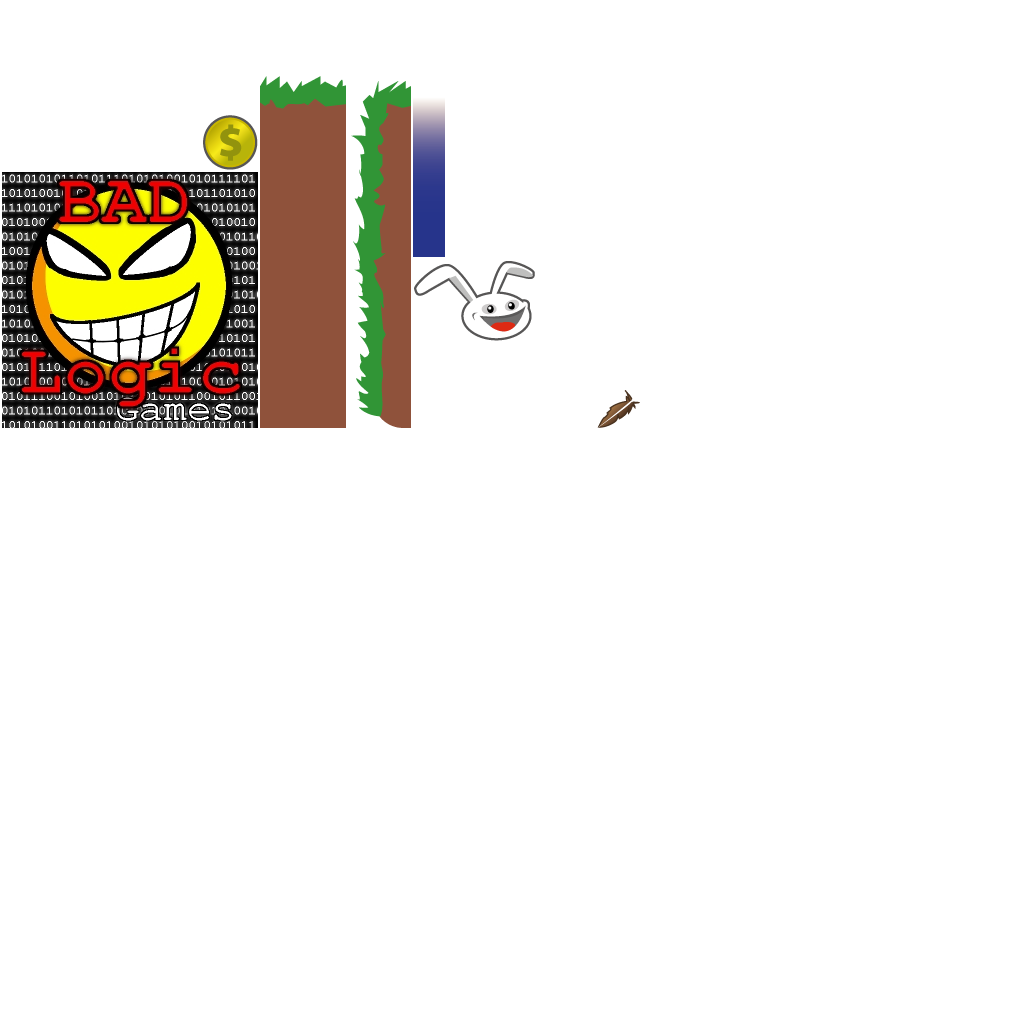
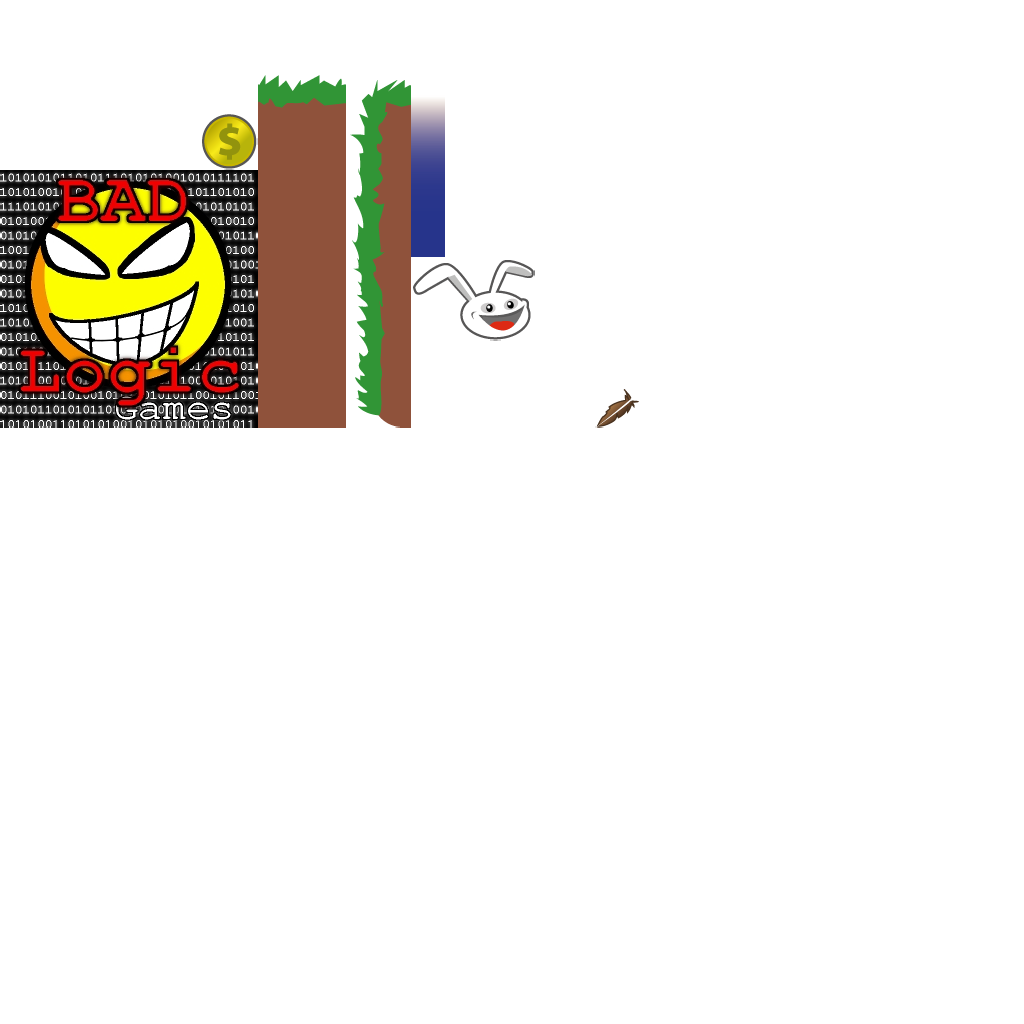
Assignment 8a:
Added: particle.png, dust.pfx
Modified: DesktopLauncher, WorldRenderer, WorldController, MenuScreen, Rock, Mountains, Clouds, BunnyHead, CameraHelper

diff --git a/core/src/com/olah/gdx/game/GameObjects/Mountains.java b/core/src/com/olah/gdx/game/GameObjects/Mountains.java
@@ -3,6 +3,7 @@ package com.olah.gdx.game.GameObjects;
 import com.badlogic.gdx.graphics.g2d.SpriteBatch;
 import com.badlogic.gdx.graphics.g2d.TextureRegion;
 import com.badlogic.gdx.math.MathUtils;
+import com.badlogic.gdx.math.Vector2;
 import com.olah.gdx.game.Assets;
 
 /**
@@ -13,6 +14,11 @@ public class Mountains extends AbstractGameObject
 {
 	private TextureRegion regMountainLeft;
 	private TextureRegion regMountainRight;
+	
+	public void updateScrollPosition(Vector2 camPosition)
+	{
+		position.set(camPosition.x,position.y);
+	}
 	
 	private int length;
 	
@@ -34,7 +40,7 @@ public class Mountains extends AbstractGameObject
 		length += dimension.x*2;
 	}
 	
-	private void drawMountains(SpriteBatch batch, float offsetX,float offsetY,float tintColor)
+	private void drawMountains(SpriteBatch batch, float offsetX,float offsetY,float tintColor, float parallaxSpeedX)
 	{
 		TextureRegion reg = null;
 		batch.setColor(tintColor,tintColor,tintColor,1);
@@ -43,18 +49,18 @@ public class Mountains extends AbstractGameObject
 		
 		//Mountains span the whole level
 		int mountainLength = 0;
-		mountainLength += MathUtils.ceil(length/(2*dimension.x));
+		mountainLength += MathUtils.ceil(length/(2*dimension.x) * (1-parallaxSpeedX));
 		mountainLength += MathUtils.ceil(.05f+offsetX);
 		for(int i = 0; i < mountainLength; i++)
 		{
 			//Mountain left
 			reg = regMountainLeft;
-			batch.draw(reg.getTexture(), origin.x+relX, position.y+origin.y+relY, origin.x, origin.y, dimension.x, dimension.y, scale.x, scale.y, rotation, reg.getRegionX(), reg.getRegionY(), reg.getRegionWidth(), reg.getRegionHeight(), false, false);
+			batch.draw(reg.getTexture(), origin.x+relX+position.x * parallaxSpeedX, origin.y+relY+position.y, origin.x, origin.y, dimension.x, dimension.y, scale.x, scale.y, rotation, reg.getRegionX(), reg.getRegionY(), reg.getRegionWidth(), reg.getRegionHeight(), false, false);
 			relX += dimension.x;
 		
 			//Mountain right
 			reg = regMountainRight;
-			batch.draw(reg.getTexture(), origin.x+relX, position.y+origin.y+relY, origin.x, origin.y, dimension.x, dimension.y, scale.x, scale.y, rotation, reg.getRegionX(), reg.getRegionY(), reg.getRegionWidth(), reg.getRegionHeight(), false, false);
+			batch.draw(reg.getTexture(), origin.x+relX+position.x * parallaxSpeedX, origin.y+relY+position.y, origin.x, origin.y, dimension.x, dimension.y, scale.x, scale.y, rotation, reg.getRegionX(), reg.getRegionY(), reg.getRegionWidth(), reg.getRegionHeight(), false, false);
 			relX += dimension.x;
 		}
 		//Reset color to white
@@ -65,10 +71,10 @@ public class Mountains extends AbstractGameObject
 	public void render(SpriteBatch batch) 
 	{
 		//Distant mountains(dark gray)
-		drawMountains(batch, 0.5f, 0.5f, 0.5f);
+		drawMountains(batch, 0.5f, 0.5f, 0.5f, 0.8f);
 		//Distant mountains(gray)
-		drawMountains(batch, 0.25f, 0.25f, 0.7f);
+		drawMountains(batch, 0.25f, 0.25f, 0.7f, 0.5f);
 		//Distant mountains(light gray)
-		drawMountains(batch, 0.0f, 0.0f, 0.9f);
+		drawMountains(batch, 0.0f, 0.0f, 0.9f, 0.3f);
 	}
 }

diff --git a/core/src/com/olah/gdx/game/WorldRenderer.java b/core/src/com/olah/gdx/game/WorldRenderer.java
@@ -5,6 +5,7 @@ import com.badlogic.gdx.graphics.OrthographicCamera;
 import com.badlogic.gdx.graphics.g2d.BitmapFont;
 import com.badlogic.gdx.graphics.g2d.Sprite;
 import com.badlogic.gdx.graphics.g2d.SpriteBatch;
+import com.badlogic.gdx.math.MathUtils;
 import com.badlogic.gdx.utils.Align;
 import com.badlogic.gdx.utils.Disposable;
 import com.olah.gdx.game.util.Constants;
@@ -103,8 +104,17 @@ public class WorldRenderer implements Disposable
 	{
 		float x = -15;
 		float y = -15;
-		batch.draw(Assets.instance.goldCoin.goldCoin, x, y, 50, 50, 100, 100, 0.35f, -0.35f, 0);
-		Assets.instance.fonts.defaultBig.draw(batch, ""+worldController.score, x+75, y+37);
+		float offsetX = 50;
+		float offsetY = 50;
+		if(worldController.scoreVisual < worldController.score)
+		{
+			long shakeAlpha = System.currentTimeMillis() % 360;
+			float shakeDist = 1.5f;
+			offsetX += MathUtils.sinDeg(shakeAlpha * 2.2f) * shakeDist;
+			offsetY += MathUtils.sinDeg(shakeAlpha * 2.9f) * shakeDist;
+		}
+		batch.draw(Assets.instance.goldCoin.goldCoin, x, y, offsetX, offsetY, 100, 100, 0.35f, -0.35f, 0);
+		Assets.instance.fonts.defaultBig.draw(batch, ""+(int)worldController.scoreVisual, x+75, y+37);
 	}
 	
 	/**
@@ -124,6 +134,15 @@ public class WorldRenderer implements Disposable
 			batch.draw(Assets.instance.bunny.head, x+i*50, y, 50, 50, 120, 100, 0.35f, -0.35f, 0);
 			batch.setColor(1,1,1,1);
 			
+		}
+		if(worldController.lives >= 0 && worldController.livesVisual > worldController.lives)
+		{
+			int i = worldController.lives;
+			float alphaColor = Math.max(0, worldController.livesVisual - worldController.lives - 0.5f);
+			float alphaScale = 0.35f * (2 + worldController.lives - worldController.livesVisual) * 2;
+			float alphaRotate = -45 * alphaColor;
+			batch.draw(Assets.instance.bunny.head, x + i *50, y, 50, 50, 120, 100, alphaScale, -alphaScale, alphaRotate);
+			batch.setColor(1, 1, 1, 1);
 		}
 	}
 	

diff --git a/core/src/com/olah/gdx/game/GameObjects/Rock.java b/core/src/com/olah/gdx/game/GameObjects/Rock.java
@@ -2,6 +2,8 @@ package com.olah.gdx.game.GameObjects;
 
 import com.badlogic.gdx.graphics.g2d.SpriteBatch;
 import com.badlogic.gdx.graphics.g2d.TextureRegion;
+import com.badlogic.gdx.math.MathUtils;
+import com.badlogic.gdx.math.Vector2;
 import com.olah.gdx.game.Assets;
 
 /**
@@ -10,10 +12,17 @@ import com.olah.gdx.game.Assets;
  */
 public class Rock extends AbstractGameObject
 {
+	private final float FLOAT_CYCLE_TIME = 2.0f;
+	private final float FLOAT_AMPLITUDE = 0.25f;
+	
 	private TextureRegion regEdge;
 	private TextureRegion regMiddle;
 	
 	private int length;
+	
+	private float floatCycleTimeLeft;
+	private boolean floatingDownwards;
+	private Vector2 floatTargetPosition;
 	
 	public Rock()
 	{
@@ -29,6 +38,10 @@ public class Rock extends AbstractGameObject
 		
 		//Start the length of the rock.
 		setLength(1);
+		
+		floatingDownwards = false;
+		floatCycleTimeLeft = MathUtils.random(0,FLOAT_CYCLE_TIME  /2);
+		floatTargetPosition = null;
 	}
 	
 	public void setLength(int length)
@@ -67,5 +80,24 @@ public class Rock extends AbstractGameObject
 		//Draw right edge
 		reg = regEdge;
 		batch.draw(reg.getTexture(), position.x+relX, position.y+relY, origin.x, origin.y, dimension.x/8, dimension.y, scale.x, scale.y, rotation,reg.getRegionX(),reg.getRegionY(),reg.getRegionWidth(),reg.getRegionHeight(),true,false);
+	}
+	
+	@Override
+	public void update (float deltaTime)
+	{
+		super.update(deltaTime);
+		
+		floatCycleTimeLeft -= deltaTime;
+		if(floatTargetPosition == null)
+		{
+			floatTargetPosition = new Vector2(position);
+		}
+		if(floatCycleTimeLeft <= 0)
+		{
+			floatCycleTimeLeft = FLOAT_CYCLE_TIME;
+			floatingDownwards = !floatingDownwards;
+			floatTargetPosition.y += FLOAT_AMPLITUDE * (floatingDownwards ? -1:1);
+		}
+		position.lerp(floatTargetPosition, deltaTime);
 	}
 }

diff --git a/core/src/com/olah/gdx/game/GameObjects/BunnyHead.java b/core/src/com/olah/gdx/game/GameObjects/BunnyHead.java
@@ -1,5 +1,7 @@
 package com.olah.gdx.game.GameObjects;
 
+import com.badlogic.gdx.Gdx;
+import com.badlogic.gdx.graphics.g2d.ParticleEffect;
 import com.badlogic.gdx.graphics.g2d.SpriteBatch;
 import com.badlogic.gdx.graphics.g2d.TextureRegion;
 import com.olah.gdx.game.Assets;
@@ -32,6 +34,7 @@ public class BunnyHead extends AbstractGameObject
 	public JUMP_STATE jumpState;
 	public boolean hasFeatherPowerup;
 	public float timeLeftFeatherPowerup;
+	public ParticleEffect dustParticles = new ParticleEffect();
 	
 	public BunnyHead()
 	{
@@ -58,6 +61,8 @@ public class BunnyHead extends AbstractGameObject
 		//Powerups
 		hasFeatherPowerup = false;
 		timeLeftFeatherPowerup = 0;
+		//Particles
+		dustParticles.load(Gdx.files.internal("particles/dust.pfx"),Gdx.files.internal("particles"));
 	}
 	
 	/**
@@ -134,6 +139,7 @@ public class BunnyHead extends AbstractGameObject
 				setFeatherPowerup(false);
 			}
 		}
+		dustParticles.update(deltaTime);
 	}
 	
 	@Override
@@ -144,6 +150,11 @@ public class BunnyHead extends AbstractGameObject
 		{
 		case GROUNDED:
 			jumpState = JUMP_STATE.FALLING;
+			if(velocity.x != 0)
+			{
+				dustParticles.setPosition(position.x + dimension.x / 2, position.y);
+				dustParticles.start();
+			}
 			break;
 		case JUMP_RISING:
 			//Keep track of jump time
@@ -168,13 +179,17 @@ public class BunnyHead extends AbstractGameObject
 			}
 		}
 		if(jumpState != JUMP_STATE.GROUNDED)
-			super.updateMotionY(deltaTime);
+			dustParticles.allowCompletion();
+			super.updateMotionY(deltaTime); 
 	}
 	
 	@Override
 	public void render (SpriteBatch batch)
 	{
 		TextureRegion reg = null; 
+		
+		//Draw particles
+		dustParticles.draw(batch);
 		
 		//Apply Skin Color
 		batch.setColor(CharacterSkin.values()[GamePreferences.instance.charSkin].getColor());

diff --git a/core/src/com/olah/gdx/game/GameObjects/Clouds.java b/core/src/com/olah/gdx/game/GameObjects/Clouds.java
@@ -31,7 +31,8 @@ public class Clouds extends AbstractGameObject
 
 		
 		@Override
-		public void render(SpriteBatch batch) {
+		public void render(SpriteBatch batch) 
+		{
 			TextureRegion reg = regCloud;
 			batch.draw(reg.getTexture(), position.x+origin.x, position.y+origin.y, origin.x, origin.y, dimension.x, dimension.y, scale.x, scale.y, rotation, reg.getRegionX(), reg.getRegionY(), reg.getRegionWidth(), reg.getRegionHeight(), false, false);		
 		}
@@ -76,6 +77,13 @@ public class Clouds extends AbstractGameObject
 		pos.y += 1.75; //Base position
 		pos.y += MathUtils.random(0.0f,0.2f) * (MathUtils.randomBoolean() ? 1:-1); //Random additional position
 		cloud.position.set(pos);
+		//Speed
+		Vector2 speed = new Vector2();
+		speed.x += 0.5f; //Base speed
+		speed.x += MathUtils.random(0.0f, 0.75f); //Random additional speed
+		cloud.terminalVelocity.set(speed);
+		speed.x *= -1; //Move left
+		cloud.velocity.set(speed);
 		return cloud;
 	}
 	
@@ -87,6 +95,23 @@ public class Clouds extends AbstractGameObject
 			cloud.render(batch);
 		}
 		
+	}
+	
+	@Override
+	public void update(float deltaTime)
+	{
+		for(int i = clouds.size-1; i>=0; i--)
+		{
+			Cloud cloud = clouds.get(i);
+			cloud.update(deltaTime);
+			if(cloud.position.x < -10)
+			{
+				//Cloud moved outside of the world.
+				//Destroy and spawn new cloud at end of level.
+				clouds.removeIndex(i);
+				clouds.add(spawnCloud());
+			}
+		}
 	}
 
 }

diff --git a/core/src/com/olah/gdx/game/WorldController.java b/core/src/com/olah/gdx/game/WorldController.java
@@ -28,6 +28,8 @@ public class WorldController extends InputAdapter
 	public int lives;
 	public int score;
 	private float timeLeftGameOverDelay;
+	public float livesVisual;
+	public float scoreVisual;
 
 	//Rectangles for collision detection
 	private Rectangle r1 = new Rectangle();
@@ -44,6 +46,7 @@ public class WorldController extends InputAdapter
 		Gdx.input.setInputProcessor(this);
 		cameraHelper = new CameraHelper();
 		lives = Constants.LIVES_START;
+		livesVisual = lives;
 		timeLeftGameOverDelay=0;
 		initLevel();
 	}
@@ -51,6 +54,7 @@ public class WorldController extends InputAdapter
 	private void initLevel()
 	{
 		score = 0;
+		scoreVisual = score;
 		level = new Level(Constants.LEVEL_01);
 		cameraHelper.setTarget(level.bunnyHead);
 	}
@@ -79,6 +83,15 @@ public class WorldController extends InputAdapter
 			{
 				initLevel();
 			}
+		}
+		level.mountains.updateScrollPosition(cameraHelper.getPosition());
+		if(livesVisual > lives)
+		{
+			livesVisual = Math.max(lives, livesVisual - 1 * deltaTime);
+		}
+		if(scoreVisual < score)
+		{
+			scoreVisual = Math.min(score, scoreVisual +250 * deltaTime); 
 		}
 	}
 	

diff --git a/core/src/com/olah/gdx/game/CameraHelper.java b/core/src/com/olah/gdx/game/CameraHelper.java
@@ -15,6 +15,7 @@ public class CameraHelper
 	private static final String TAG = CameraHelper.class.getName();
 	private final float MAX_ZOOM_IN = 0.25f;
 	private final float MAX_ZOOM_OUT = 10.0f;
+	private final float FOLLOW_SPEED = 4.0f;
 
 	private Vector2 position;
 	private float zoom;
@@ -32,9 +33,7 @@ public class CameraHelper
 		{
 			return;
 		}
-		position.x = target.position.x + target.origin.y;
-		position.y = target.position.y + target.origin.y;
-		
+		position.lerp(target.position, FOLLOW_SPEED * deltaTime);
 		//Prevent camera from moving too far down.
 		position.y = Math.max(-1f, position.y);
 	}

diff --git a/desktop/src/com/olah/gdx/game/desktop/DesktopLauncher.java b/desktop/src/com/olah/gdx/game/desktop/DesktopLauncher.java
@@ -23,7 +23,7 @@ public class DesktopLauncher
 			Settings settings = new Settings();
 			settings.maxWidth = 1024;
 			settings.maxHeight= 1024;
-			settings.duplicatePadding = false;
+			settings.duplicatePadding = true;
 			settings.debug = drawDebugOutline;
 			TexturePacker.processIfModified(settings, "assets-raw/images", "../core/assets/images","canyonbunny.pack");
 			TexturePacker.processIfModified(settings, "assets-raw/images-ui", "../core/assets/images","canyonbunny-ui.pack");

diff --git a/core/src/com/olah/gdx/game/MenuScreen.java b/core/src/com/olah/gdx/game/MenuScreen.java
@@ -128,7 +128,7 @@ public class MenuScreen extends AbstractGameScreen
 
 		// + Info logos
 		imgInfo = new Image(skinCanyonBunny,"info");
-		layer.add(imgInfo);
+		layer.add(imgInfo).bottom();
 		if(debugEnabled)
 		{
 			layer.debug();
